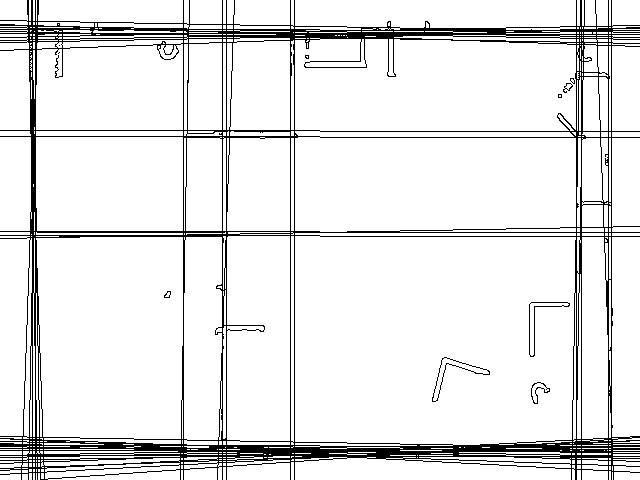
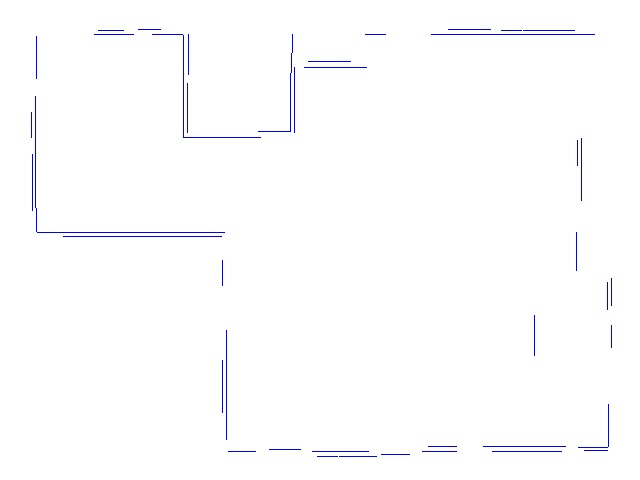
hough prob

diff --git a/explore_laser.py b/explore_laser.py
@@ -320,20 +320,23 @@ def plotar_mapa():
 	image = cv2.imread('points_.png',0)
 	image = cv2.Canny(image, 50, 100, None, 3)
 	cv2.imwrite('canny_.png',image)
-	lines = cv2.HoughLines(image, 1, np.pi/180, 75, None, 0, 0)[0]
-	destine = image #np.full((image.shape[0],image.shape[1],3),255.0)
+	lines = cv2.HoughLinesP(image, 1, np.pi/180, 50, 50, 20)[0]
+	print(len(lines))
+	destine = np.full((image.shape[0],image.shape[1],3),255.0)
 	if lines is not None:
-		for l in lines:
-			rho = l[0]
-			theta = l[1]
-			a = math.cos(theta)
-			b = math.sin(theta)
-			x0 = a * rho
-			y0 = b * rho
-			pt1 = (int(x0 + 1000*(-b)), int(y0 + 1000*(a)))
-			pt2 = (int(x0 - 1000*(-b)), int(y0 - 1000*(a)))
-			cv2.line(destine, pt1, pt2, (255,0,0), 1)
-	cv2.imwrite('hough_lines_map.jpg',cv2.bitwise_not(destine))
+		for x1,y1,x2,y2 in lines:
+			cv2.line(destine,(x1,y1),(x2,y2),(255,0,0),1)
+		#for l in lines:
+			#rho = l[0]
+			#theta = l[1]
+			#a = math.cos(theta)
+			#b = math.sin(theta)
+			#x0 = a * rho
+			#y0 = b * rho
+			#pt1 = (int(x0 + 1000*(-b)), int(y0 + 1000*(a)))
+			#pt2 = (int(x0 - 1000*(-b)), int(y0 - 1000*(a)))
+			#cv2.line(destine, pt1, pt2, (255,0,0), 1)
+	cv2.imwrite('hough_lines_map.jpg',destine)
 
 display = False
 localizacao = localization.localizacao()
